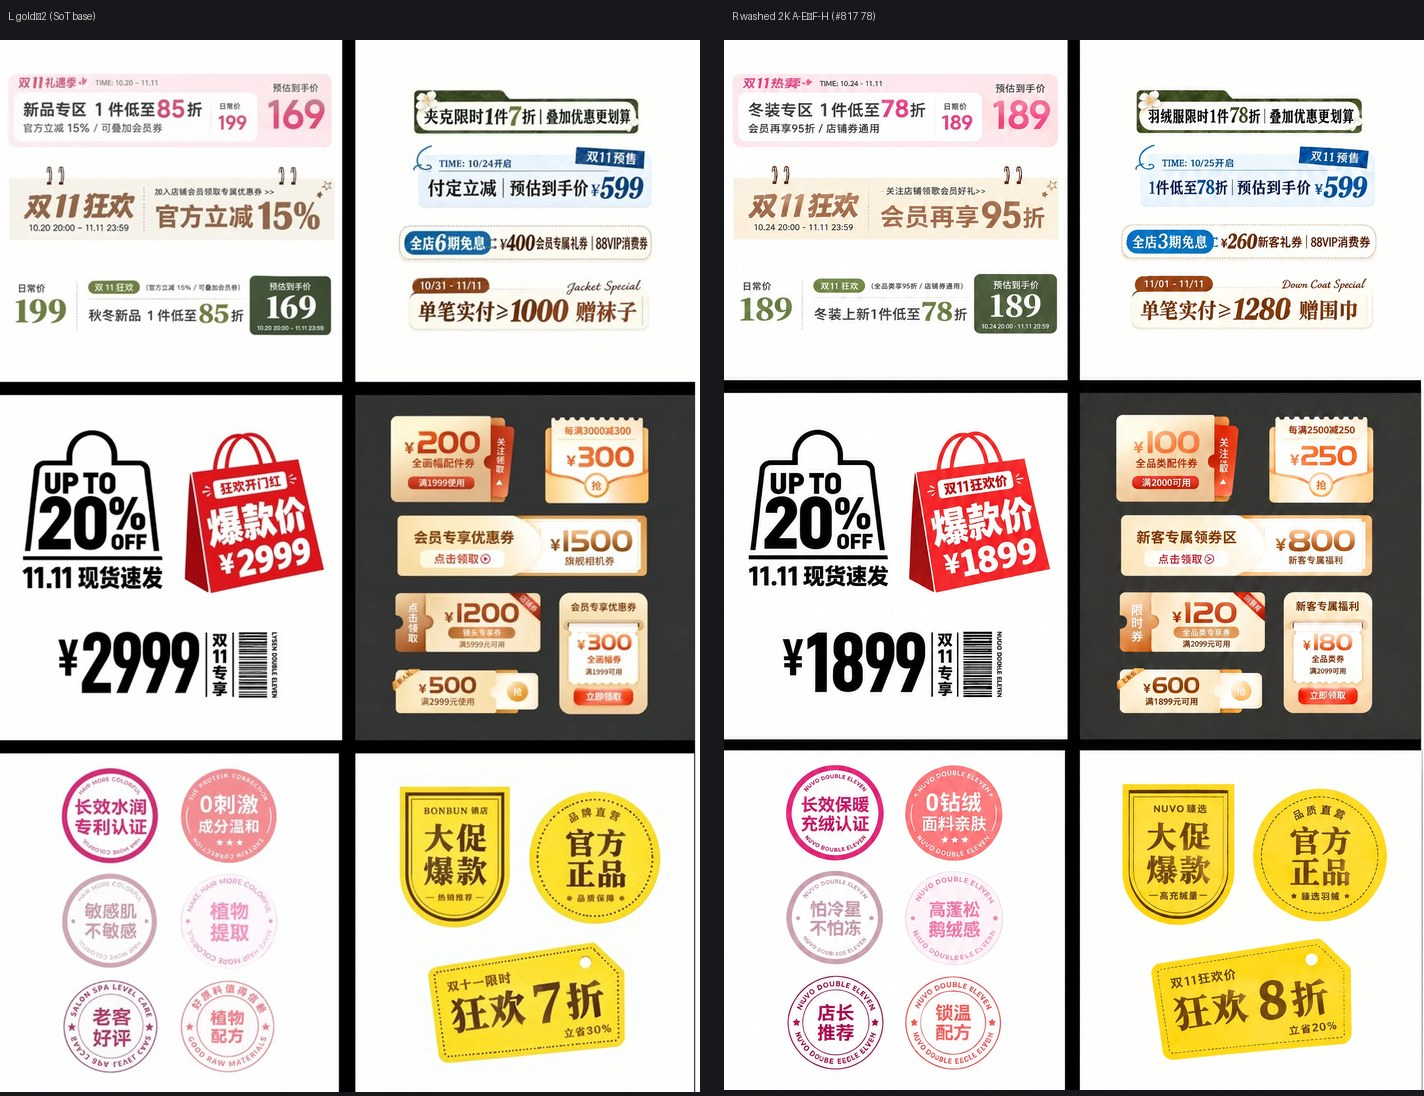
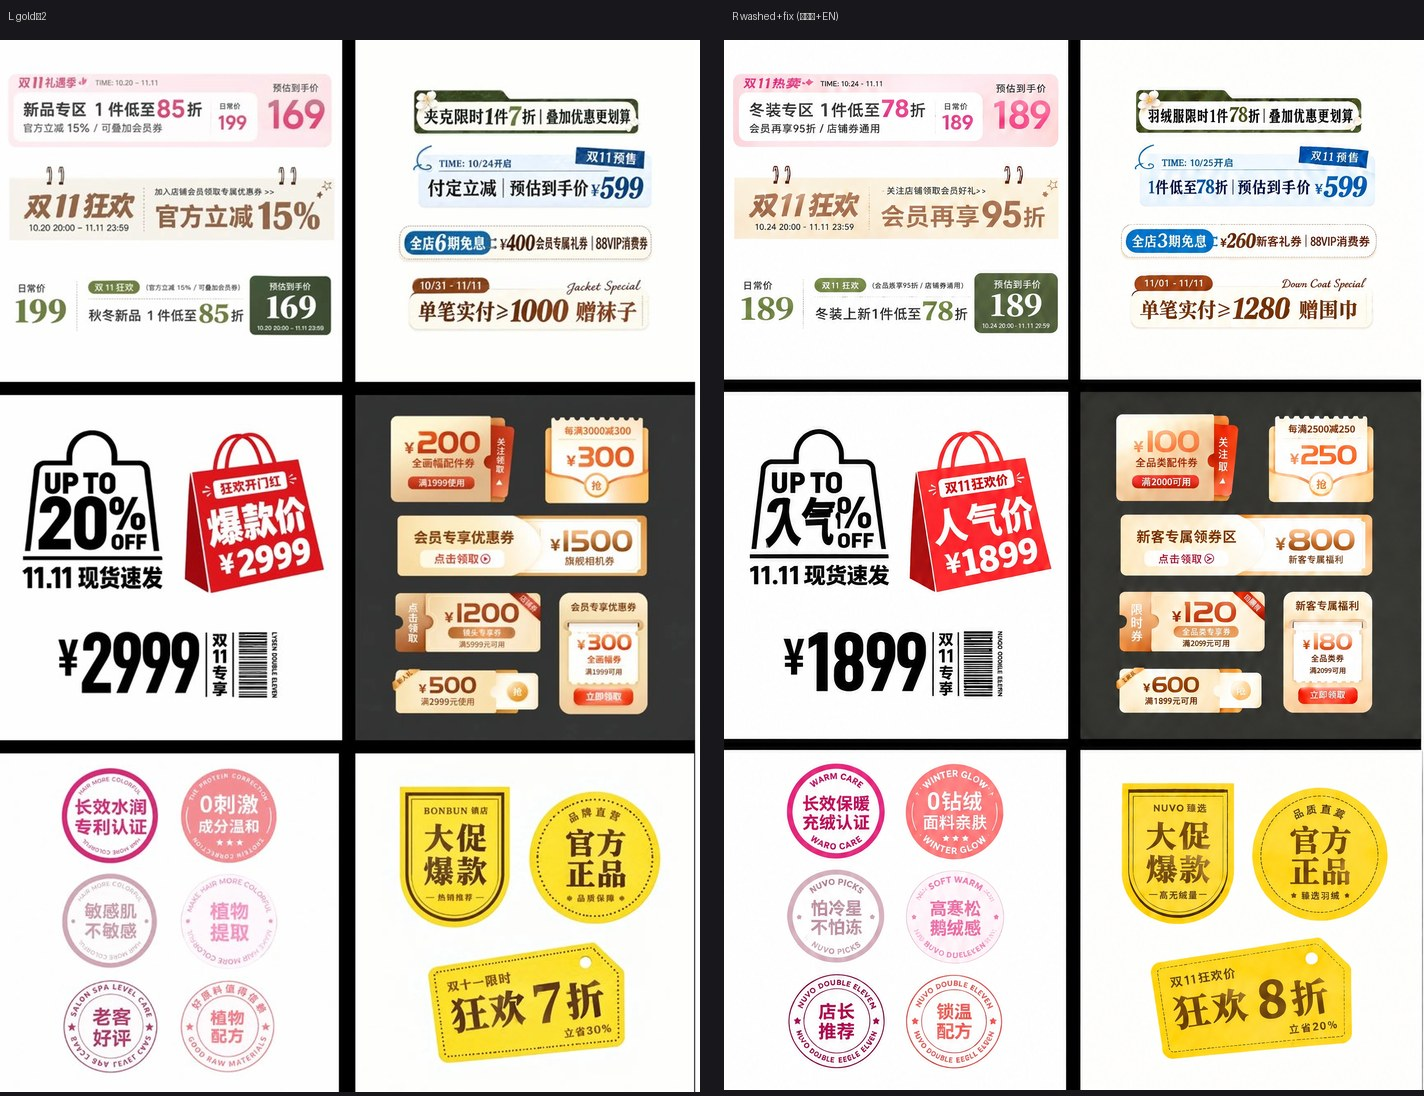
docs(#745): land targeted HOLD fix for gold 2K wash
人气价 is in. EN SoT stays partial. Spend for this pass ≈ $0.1035.

diff --git a/docs/qa/745/WASH-NOTE-GOLD.md b/docs/qa/745/WASH-NOTE-GOLD.md
@@ -4,12 +4,17 @@
 - SoT：[#817](https://github.com/ganjmeng/ComfyArt/pull/817) `docs/design/673/PROMO01-REPLACE.md`（换 78 / 留 49）。本目录不改该文件。
 - tip≈25 作废，勿按它验。
 - 跑法：WaveSpeed `gpt-image-2.6-flare/edit` · 2k · 两段（A–E → F–H）。花费 ≈ $0.207。
-- OCR 抽查：`78折` / `羽绒服` / `怕冷星` **PASS**；`爆款价` **FAIL**（未改「人气价」）；英文 SoT **WEAK**。
-- 请 QA 看 L/R：[`LR-gold-vs-washed.jpg`](LR-gold-vs-washed.jpg)。核对 78 处对齐，KEEP 无回退。
+- 定点修补 ≈ $0.1035：`爆款价`→`人气价`，以及 EN 印章。账见 [`fix-ledger.json`](fix-ledger.json)。
+- 抽查：`78折` / `羽绒服` / `怕冷星` **PASS**；`爆款价`→`人气价` **PASS**。英文 SoT **PARTIAL**（`NUVO PICKS` 可读；`WARM CARE` / `WINTER GLOW` / `SOFT WARM` 碎裂）。
+- 请产品 / QA 看英文，并看 L/R。核对 78 处对齐，KEEP 无回退。不关闭 #745。
 
 | 文件 | 角色 |
 |---|---|
-| [`docs/design/673/wash/promo-ecommerce/examples/01-washed-gold-2k.webp`](../../design/673/wash/promo-ecommerce/examples/01-washed-gold-2k.webp) | 终图 1568×2352 |
+| [`docs/design/673/wash/promo-ecommerce/examples/01-washed-gold-2k.webp`](../../design/673/wash/promo-ecommerce/examples/01-washed-gold-2k.webp) | 修补后终图 1568×2352 |
+| [`LR-gold-vs-washed.jpg`](LR-gold-vs-washed.jpg) | 金标左 \| 修补后右 |
+| [`LR-fix-D.jpg`](LR-fix-D.jpg) | D 区修补对照（人气价） |
+| [`LR-fix-FH.jpg`](LR-fix-FH.jpg) | F–H 英文印章对照 |
 | [`pass1-AE-gold.webp`](pass1-AE-gold.webp) | 第 1 段 A–E，1568×2352 |
-| [`wash-ledger-gold.json`](wash-ledger-gold.json) | 账 |
-| [`ocr_spots-gold.json`](ocr_spots-gold.json) | OCR 抽点 |
+| [`wash-ledger-gold.json`](wash-ledger-gold.json) | 两段账 |
+| [`fix-ledger.json`](fix-ledger.json) | 定点修补账 |
+| [`ocr_spots-gold.json`](ocr_spots-gold.json) | 修补前 OCR 抽点 |
